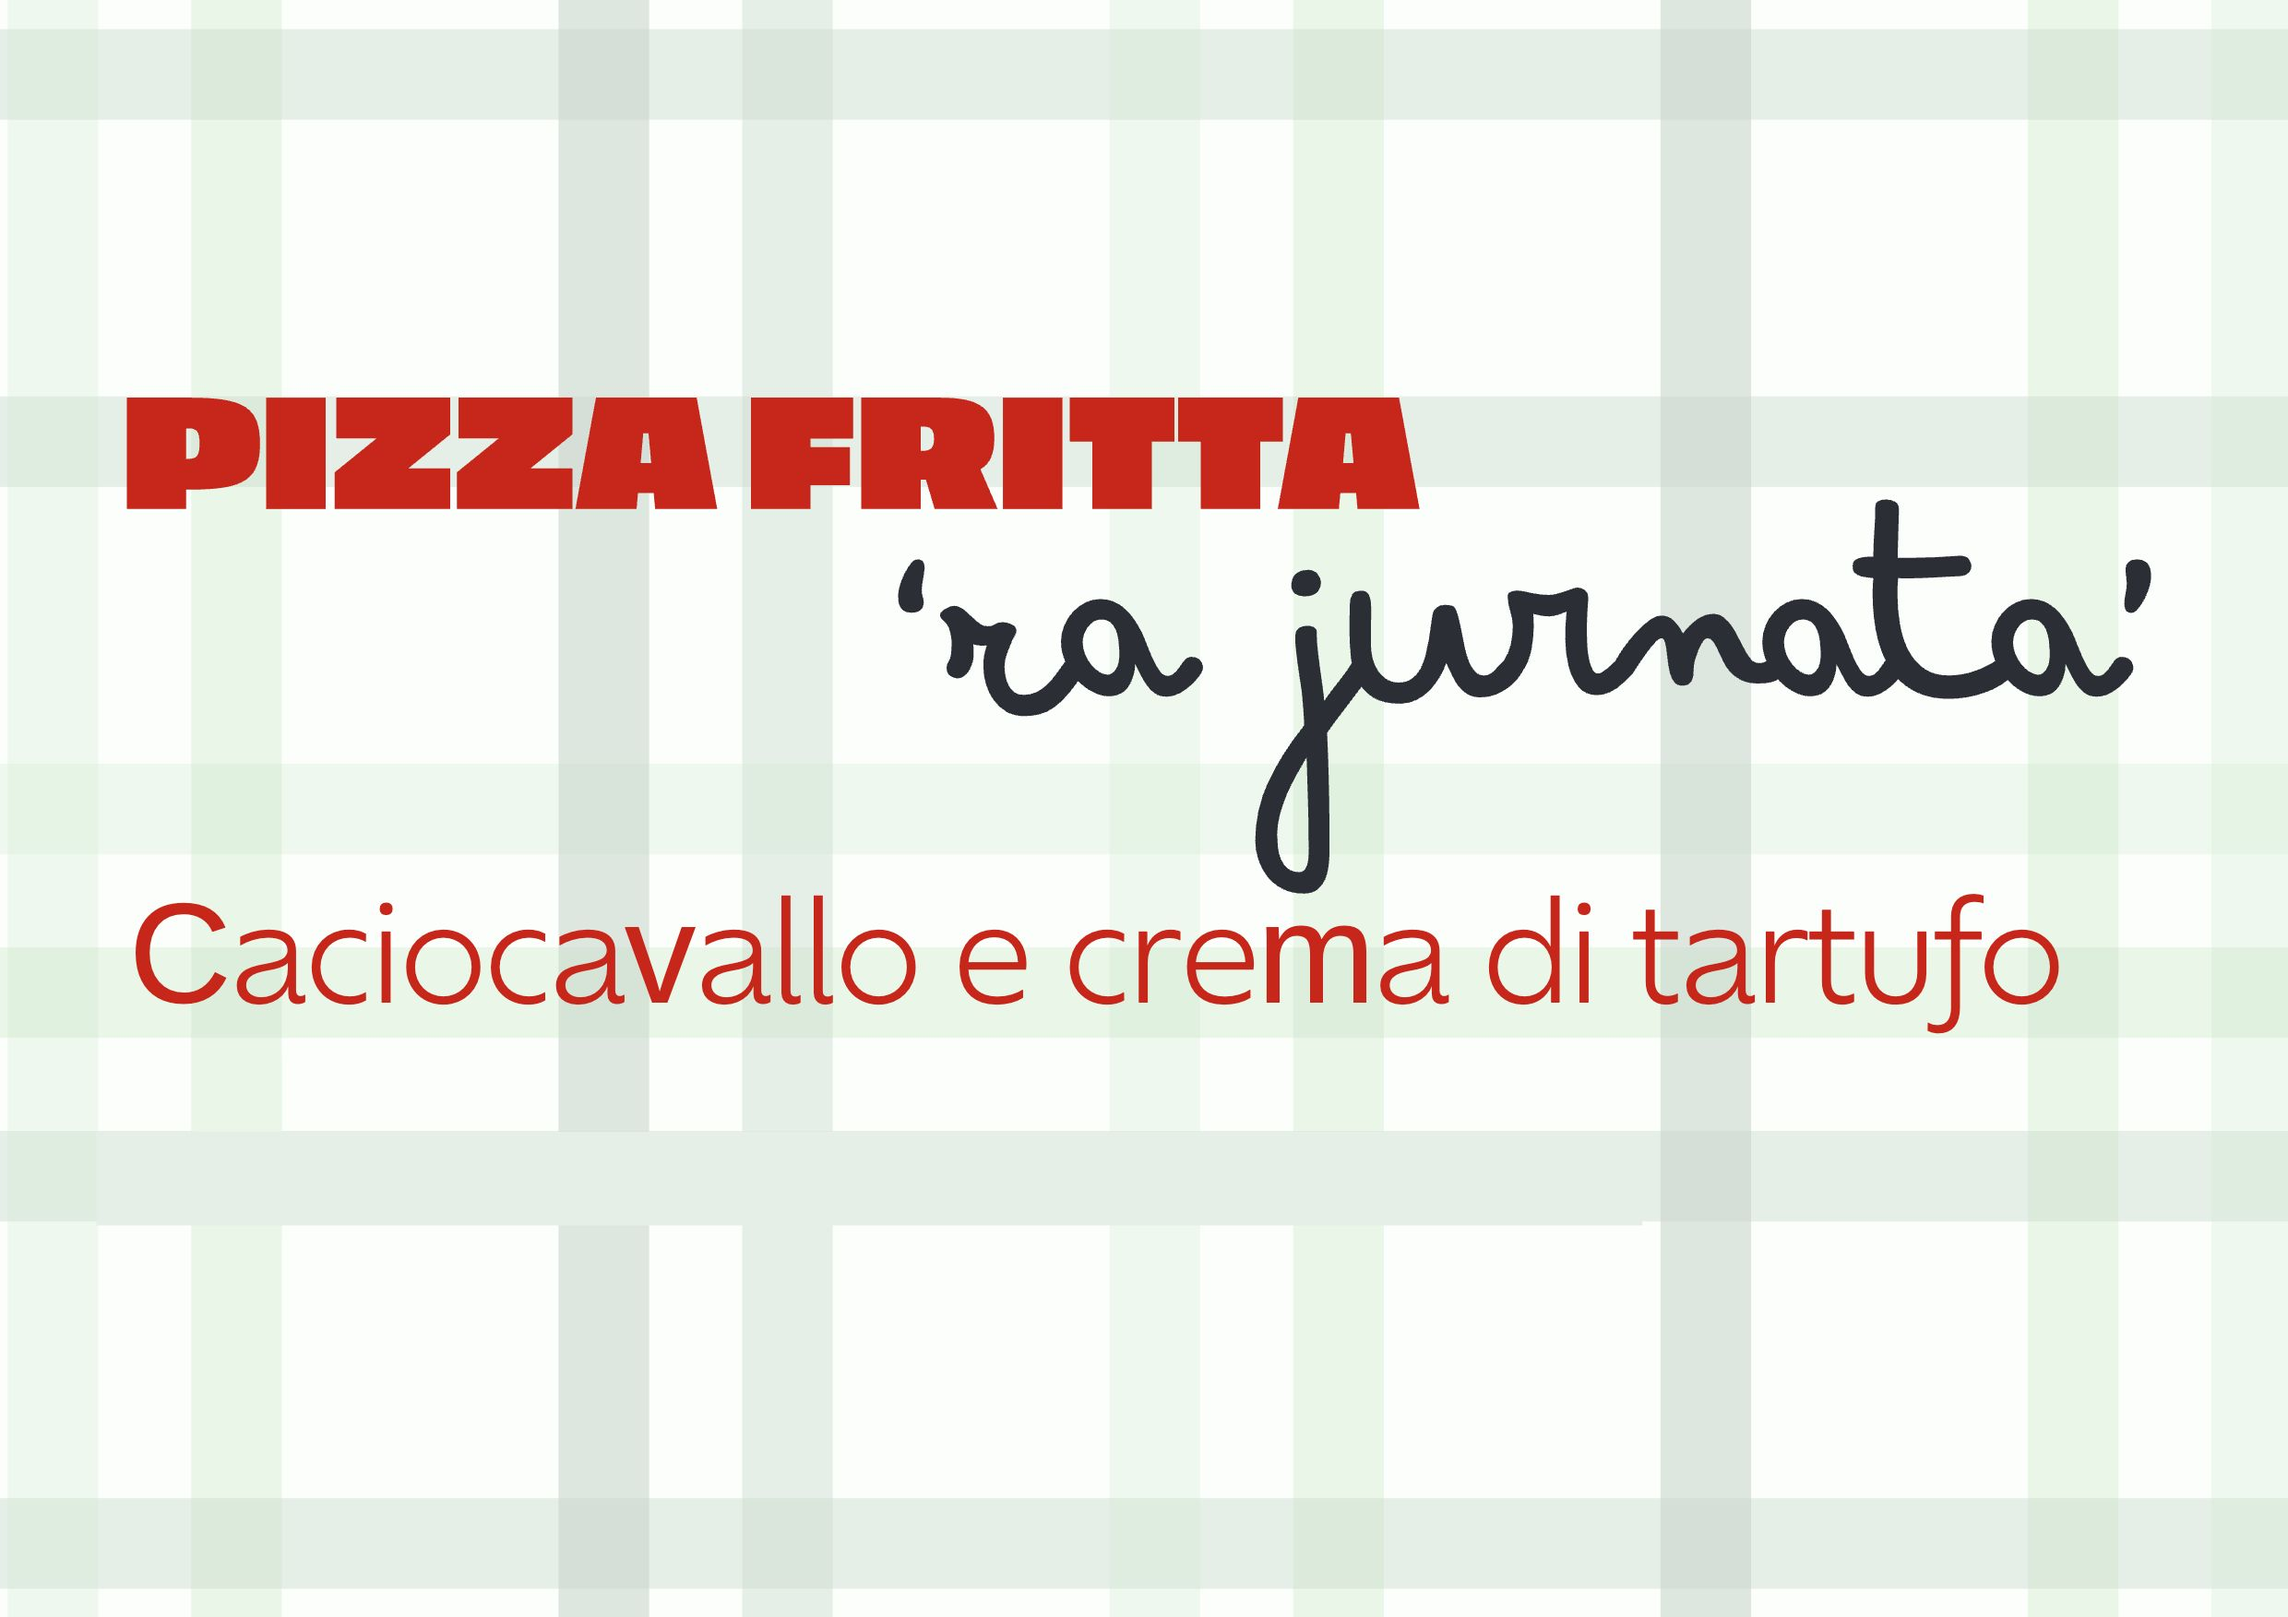
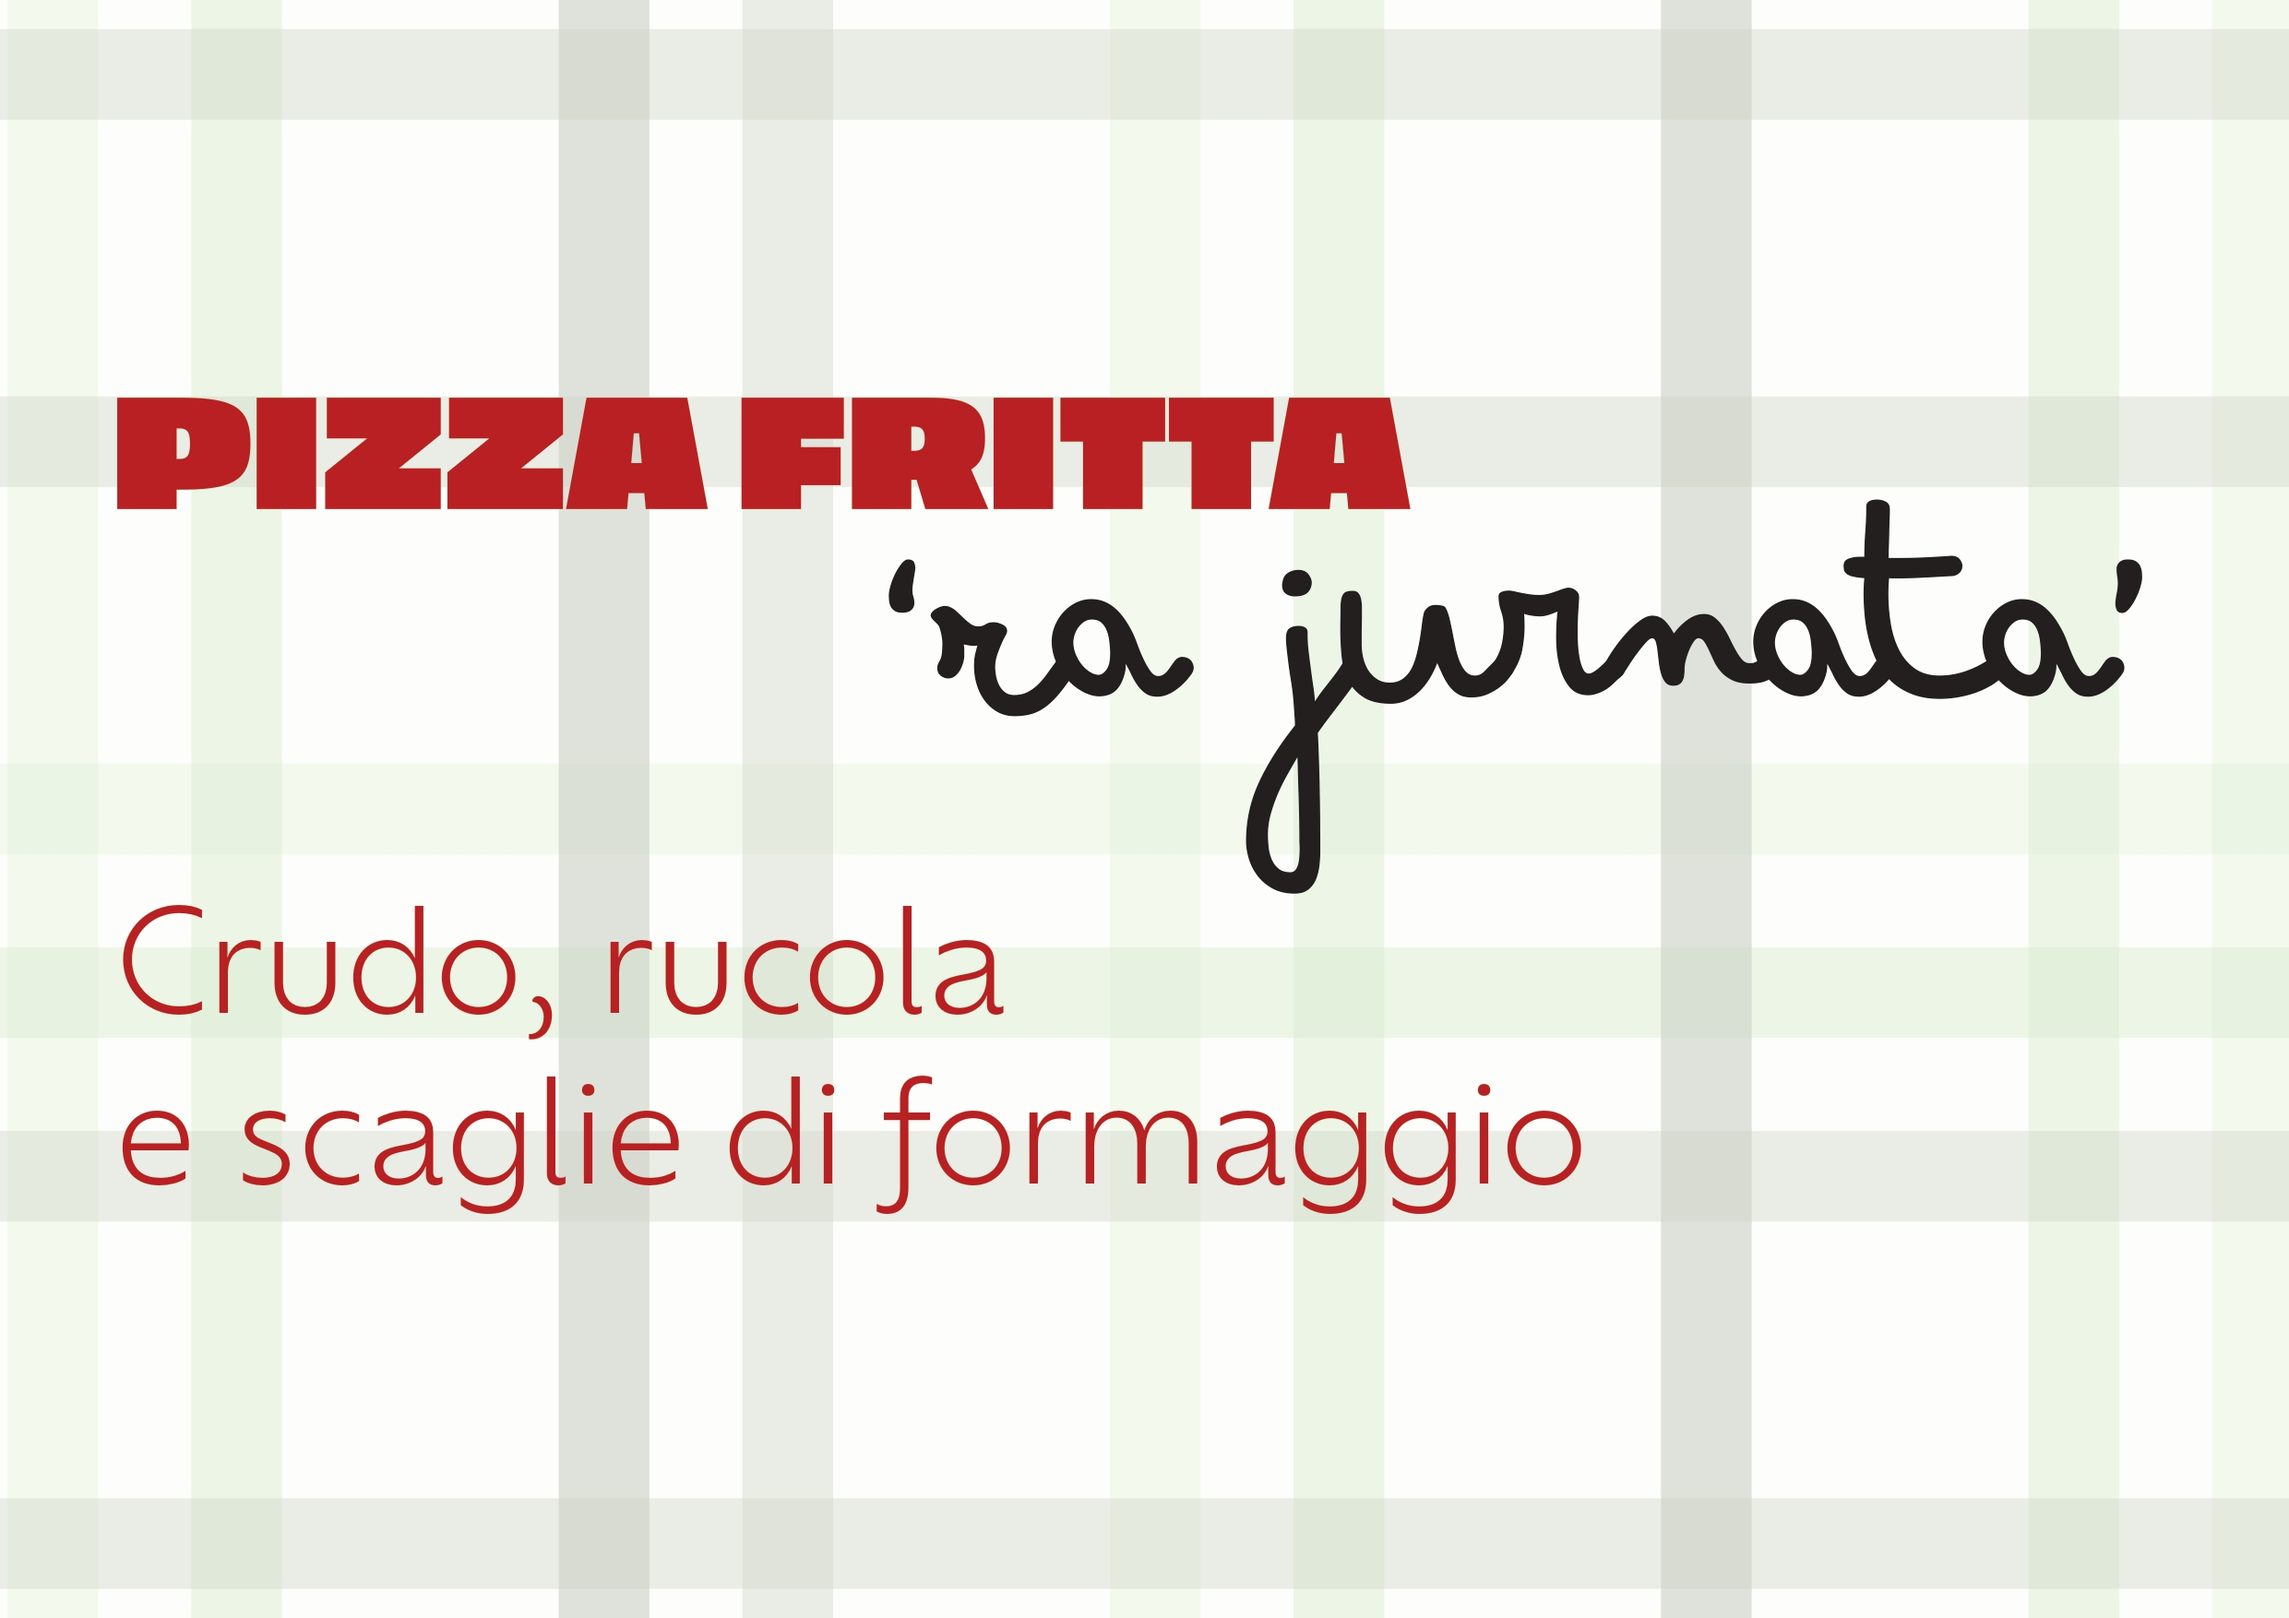
Update Dish of the Day component with new dish name and highlight; add special image

diff --git a/components/dish-of-the-day.tsx b/components/dish-of-the-day.tsx
@@ -4,9 +4,9 @@ import { useState } from "react";
 export function DishOfTheDay() {
   const [show, setShow] = useState(false);
   const dish = {
-    name: "Piatto del Giorno",
+    name: "Pizza Fritta 'Ra Jurnat'",
     image: "/images/special.jpg",
-    highlight: "Pizza fritta con caciocavallo e crema di tartufo",
+    highlight: "Pizza fritta con crudo, rucola e scaglie di formaggio",
   };
 
   return (
